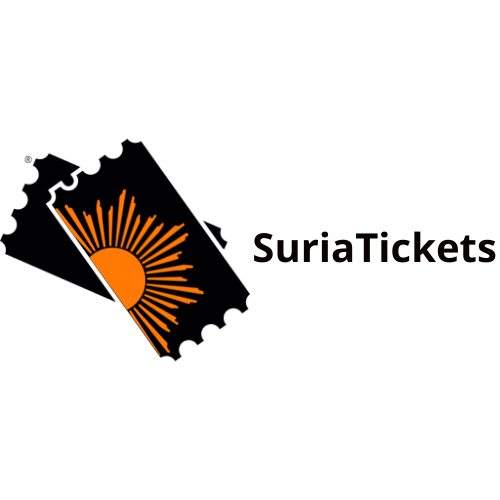
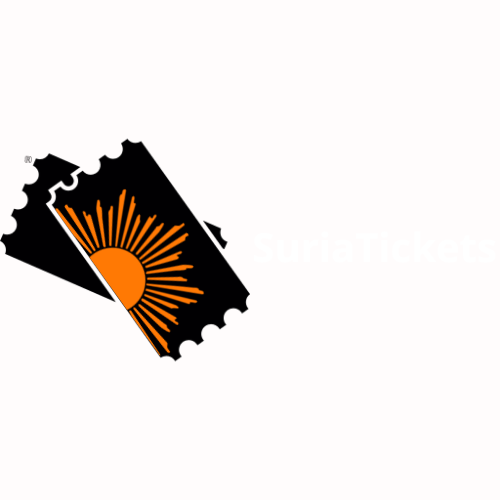
Hasta aca va bien

Changed region(s): [[0.51, 0.45, 0.99, 0.54]]

diff --git a/style.css b/style.css
@@ -224,7 +224,7 @@ body {
 
 
 .textoSoporte {
-    background-color: rgba(151, 38, 38, 0);
+    background-color: #FBFBFF;
     box-shadow: 0 5px 50px -1px black;
     margin: auto;
     width: 90%;
@@ -237,7 +237,7 @@ body {
     box-shadow: 0 5px 50px -1px rgba(44, 25, 25, 0.5);
     text-align: center;
     margin-top: 3rem;
-    color: white;
+    color: black;
 }
 
 .barraDeBusquedaSoporte {
@@ -252,7 +252,7 @@ body {
     justify-content: center;
     align-items: center;
     padding: 10px;
-    border: none;
+    border-color: black;
     border-radius: 13px;
     font-size: 20px;
     width: 600px;
@@ -261,8 +261,8 @@ body {
 }
 
 .botonBuscarSoporte {
-    background-color: rgb(255, 255, 255);
-    color: rgb(0, 0, 0);
+    background-color: black;
+    color: #FBFBFF;
     font-weight: 300;
     font-size: 1rem;
     padding: 1rem 1rem;

diff --git a/assets/pages/Ingresar.html b/assets/pages/Ingresar.html
@@ -49,7 +49,7 @@
             </div>
 
             <div>
-                F<label>Contraseña</label>
+                <label>Contraseña</label>
                 <input type="password" name="password" class="barraFormulario" placeholder="Contraseña" required>
             </div>
 
